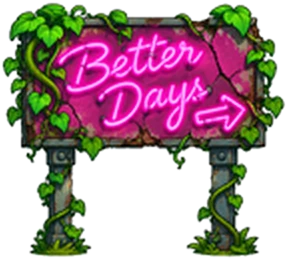
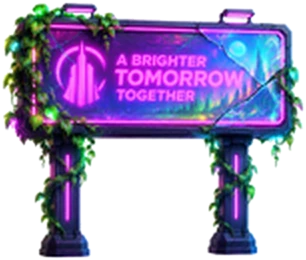
Direccion de arte neon premium: suelos oscuros con luz propia, bloom, etalonaje, brillo bajo objetos y personajes; sprites del Nivel 3 regenerados en estilo 3D neon

diff --git a/juegos/condenados/index.html b/juegos/condenados/index.html
@@ -1202,6 +1202,7 @@ function drawPlants(t) {
     const H = 88, W = H * img.width / img.height, grow = Math.min(1, p.t / 0.45), bob = Math.sin(t * 3 + p.seed * 9) * 2;
     const sc = grow * (1 + (p.bite > 0 ? 0.16 : 0) + (p.type === 'bomb' && p.arm <= 0 ? Math.sin(t * 16) * 0.05 : 0));
     ctx.fillStyle = 'rgba(0,0,0,.38)'; ctx.beginPath(); ctx.ellipse(p.x + 3, p.y + 6, 30, 13, 0, 0, 7); ctx.fill();
+    { const gl = getGlow(d.spr); if (gl) { const k = H / img.height, gw = gl.w * k, gh = gl.h * k; ctx.save(); ctx.globalCompositeOperation = 'lighter'; ctx.globalAlpha = 0.5 * grow; ctx.drawImage(gl.c, p.x - gw / 2, p.y + 8 - H - (gh - H) / 2 + bob, gw, gh); ctx.restore(); } }
     ctx.save(); ctx.translate(p.x, p.y + 8); ctx.scale(sc * (p.type === 'shoot' ? p.face : 1), sc); if (p.hurt > 0) ctx.globalAlpha = 0.6 + Math.sin(t * 40) * 0.3; ctx.drawImage(img, -W / 2, -H + bob, W, H); ctx.restore();
     ctx.save(); ctx.globalCompositeOperation = 'lighter'; glow(p.x, p.y - 30, 52, d.col, 0.16 + (p.bite > 0 ? 0.3 : 0)); ctx.restore();
     if (p.t < 2.2) { ctx.save(); ctx.strokeStyle = d.col; ctx.globalAlpha = 0.5 * (1 - p.t / 2.2); ctx.lineWidth = 2; ctx.beginPath(); ctx.arc(p.x, p.y, p.type === 'shoot' ? 440 : p.type === 'trap' ? 80 : 105, 0, 7); ctx.stroke(); ctx.restore(); }
@@ -1317,32 +1318,29 @@ function makeJungleTile(kind = 'concrete') {
   const c = document.createElement('canvas'); c.width = c.height = 160; const g = c.getContext('2d');
   let sd = 11 + kind.length * 7; const rnd = () => (sd = (sd * 16807) % 2147483647) / 2147483647;
   const speck = (n, cols, rmax) => { for (let i = 0; i < n; i++) { g.fillStyle = cols[(rnd() * cols.length) | 0]; const r = 1 + rnd() * rmax; g.fillRect(rnd() * 160, rnd() * 160, r, r); } };
-  const moss = (n, a) => { for (let i = 0; i < n; i++) { const x = rnd() * 160, y = rnd() * 160, r = 4 + rnd() * 13; g.fillStyle = 'rgba(' + (40 + rnd() * 50 | 0) + ',' + (150 + rnd() * 90 | 0) + ',' + (40 + rnd() * 40 | 0) + ',' + (a + rnd() * 0.3) + ')'; g.beginPath(); g.ellipse(x, y, r, r * 0.7, rnd() * 3, 0, 7); g.fill(); } };
+  const glowDots = (n, col) => { for (let i = 0; i < n; i++) { const x = 26 + rnd() * 108, y = 26 + rnd() * 108, r = 2 + rnd() * 3; const gr = g.createRadialGradient(x, y, 0, x, y, r * 4); gr.addColorStop(0, col); gr.addColorStop(1, 'rgba(0,0,0,0)'); g.fillStyle = gr; g.fillRect(x - r * 4, y - r * 4, r * 8, r * 8); } };
+  const lines = (col, w, a) => { g.save(); g.strokeStyle = col; g.lineWidth = w; g.globalAlpha = a; g.shadowColor = col; g.shadowBlur = 8; };
   if (kind === 'asphalt') {
-    g.fillStyle = '#3a3e46'; g.fillRect(0, 0, 160, 160); speck(260, ['#2c2f36', '#4a4e57', '#33363d', '#575b64'], 2.4);
-    g.strokeStyle = 'rgba(15,16,20,.55)'; g.lineWidth = 2; for (let i = 0; i < 3; i++) { let x = rnd() * 160, y = rnd() * 160; g.beginPath(); g.moveTo(x, y); for (let k = 0; k < 5; k++) { x += (rnd() - 0.5) * 36; y += (rnd() - 0.5) * 36; g.lineTo(x, y); } g.stroke(); }
-    moss(3, 0.18);
+    g.fillStyle = '#141623'; g.fillRect(0, 0, 160, 160); speck(260, ['#0d0f1a', '#1c1f30', '#101222', '#262a40'], 2.4);
+    lines('#2be8f0', 1.5, 0.35); for (let i = 0; i < 2; i++) { let x = rnd() * 160, y = rnd() * 160; g.beginPath(); g.moveTo(x, y); for (let k = 0; k < 5; k++) { x += (rnd() - 0.5) * 36; y += (rnd() - 0.5) * 36; g.lineTo(x, y); } g.stroke(); } g.restore();
+    glowDots(3, 'rgba(125,255,106,.55)');
   } else if (kind === 'dirt') {
-    g.fillStyle = '#6b5a3c'; g.fillRect(0, 0, 160, 160); speck(300, ['#5a4a30', '#7a6844', '#4d3f28', '#86744e'], 3);
-    for (let i = 0; i < 6; i++) { g.strokeStyle = 'rgba(70,50,30,.4)'; g.lineWidth = 3; g.beginPath(); const x = rnd() * 160, y = rnd() * 160; g.moveTo(x, y); g.lineTo(x + 30 + rnd() * 30, y + (rnd() - 0.5) * 12); g.stroke(); }
-    moss(5, 0.22);
-    for (let i = 0; i < 5; i++) { const x = rnd() * 160, y = rnd() * 160; g.strokeStyle = '#3fb84a'; g.lineWidth = 2; for (let k = -1; k <= 1; k++) { g.beginPath(); g.moveTo(x, y); g.lineTo(x + k * 4, y - 8 - rnd() * 4); g.stroke(); } }
+    g.fillStyle = '#1d1830'; g.fillRect(0, 0, 160, 160); speck(300, ['#15112a', '#2a2244', '#120e22', '#33295a'], 3);
+    glowDots(4, 'rgba(125,255,106,.45)'); glowDots(2, 'rgba(255,63,180,.4)'); glowDots(2, 'rgba(43,232,240,.4)');
   } else if (kind === 'tile') {
-    g.fillStyle = '#9aa0a8'; g.fillRect(0, 0, 160, 160);
-    for (let i = 0; i < 4; i++) for (let j = 0; j < 4; j++) { const x = i * 40, y = j * 40, ch = (i + j) % 2; g.fillStyle = ch ? '#d9dee6' : '#c4cad4'; g.fillRect(x + 1, y + 1, 38, 38); g.fillStyle = 'rgba(255,255,255,.35)'; g.fillRect(x + 3, y + 3, 14, 4); }
-    g.strokeStyle = 'rgba(70,60,90,.5)'; g.lineWidth = 2; for (let i = 0; i <= 4; i++) { g.beginPath(); g.moveTo(i * 40, 0); g.lineTo(i * 40, 160); g.stroke(); g.beginPath(); g.moveTo(0, i * 40); g.lineTo(160, i * 40); g.stroke(); }
-    for (let i = 0; i < 4; i++) { let x = rnd() * 160, y = rnd() * 160; g.strokeStyle = 'rgba(40,30,50,.5)'; g.lineWidth = 2; g.beginPath(); g.moveTo(x, y); for (let k = 0; k < 4; k++) { x += (rnd() - 0.5) * 28; y += (rnd() - 0.5) * 28; g.lineTo(x, y); } g.stroke(); }
-    moss(8, 0.3);
+    g.fillStyle = '#0e1426'; g.fillRect(0, 0, 160, 160);
+    for (let i = 0; i < 4; i++) for (let j = 0; j < 4; j++) { const x = i * 40, y = j * 40, ch = (i + j) % 2; g.fillStyle = ch ? '#1e2744' : '#18203a'; g.fillRect(x + 2, y + 2, 36, 36); g.fillStyle = 'rgba(180,230,255,.07)'; g.fillRect(x + 4, y + 4, 14, 4); }
+    lines('#ff3fb4', 1.5, 0.5); for (let i = 0; i <= 4; i++) { g.beginPath(); g.moveTo(i * 40, 0); g.lineTo(i * 40, 160); g.stroke(); g.beginPath(); g.moveTo(0, i * 40); g.lineTo(160, i * 40); g.stroke(); } g.restore();
+    glowDots(6, 'rgba(43,232,240,.5)');
   } else if (kind === 'cobble') {
-    g.fillStyle = '#4c4f52'; g.fillRect(0, 0, 160, 160);
-    for (let j = 0; j < 8; j++) for (let i = 0; i < 7; i++) { const x = i * 23 + (j % 2) * 11 - 6, y = j * 20 + 1, sh = 120 + (rnd() * 40 | 0); g.fillStyle = 'rgb(' + sh + ',' + (sh + 4) + ',' + (sh + 8) + ')'; g.beginPath(); g.roundRect ? g.roundRect(x, y, 21, 18, 5) : g.rect(x, y, 21, 18); g.fill(); g.fillStyle = 'rgba(255,255,255,.18)'; g.fillRect(x + 3, y + 2, 9, 3); }
-    moss(14, 0.4);
+    g.fillStyle = '#120f22'; g.fillRect(0, 0, 160, 160);
+    for (let j = 0; j < 8; j++) for (let i = 0; i < 7; i++) { const x = i * 23 + (j % 2) * 11 - 6, y = j * 20 + 1, sh = 38 + (rnd() * 26 | 0); g.fillStyle = 'rgb(' + sh + ',' + (sh - 4) + ',' + (sh + 30) + ')'; g.beginPath(); g.roundRect ? g.roundRect(x, y, 21, 18, 5) : g.rect(x, y, 21, 18); g.fill(); g.fillStyle = 'rgba(190,170,255,.12)'; g.fillRect(x + 3, y + 2, 9, 3); }
+    glowDots(4, 'rgba(176,106,255,.4)'); glowDots(3, 'rgba(125,255,106,.35)');
   } else {
-    g.fillStyle = '#8c9298'; g.fillRect(0, 0, 160, 160);
-    for (let i = 0; i < 2; i++) for (let j = 0; j < 2; j++) { const x = i * 80, y = j * 80; g.fillStyle = (i + j) % 2 ? '#9aa0a6' : '#868c92'; g.fillRect(x + 2, y + 2, 76, 76); g.strokeStyle = 'rgba(30,36,40,.6)'; g.lineWidth = 2; g.strokeRect(x + 1, y + 1, 78, 78); }
-    speck(180, ['#7a8086', '#a8aeb4', '#6c7278'], 2.5);
-    for (let i = 0; i < 3; i++) { let x = rnd() * 160, y = rnd() * 160; g.strokeStyle = 'rgba(30,36,40,.55)'; g.lineWidth = 2; g.beginPath(); g.moveTo(x, y); for (let k = 0; k < 4; k++) { x += (rnd() - 0.5) * 34; y += (rnd() - 0.5) * 34; g.lineTo(x, y); } g.stroke(); }
-    moss(6, 0.25);
+    g.fillStyle = '#171b27'; g.fillRect(0, 0, 160, 160);
+    for (let i = 0; i < 2; i++) for (let j = 0; j < 2; j++) { const x = i * 80, y = j * 80; g.fillStyle = (i + j) % 2 ? '#1f2535' : '#191e2c'; g.fillRect(x + 2, y + 2, 76, 76); }
+    lines('#ff8a3d', 1.5, 0.4); for (let i = 0; i < 2; i++) { g.beginPath(); g.moveTo(i * 80, 0); g.lineTo(i * 80, 160); g.stroke(); g.beginPath(); g.moveTo(0, i * 80); g.lineTo(160, i * 80); g.stroke(); } g.restore();
+    speck(180, ['#10131d', '#2a3144', '#0c0f18'], 2.5); glowDots(4, 'rgba(255,138,61,.5)');
   }
   return c;
 }
@@ -3717,6 +3715,33 @@ function drawRoof(r) {
   ctx.fillStyle = 'rgba(0,0,0,.35)'; ctx.fillRect(r.x + 10, r.y + 14, r.w, r.h);
   ctx.drawImage(img, r.x - 8, r.y - 10, r.w + 16, r.h + 10);
 }
+/* ---- direccion de arte: neon moderno (luz propia, brillo y etalonaje) ---- */
+const GLOWCOL = { j_tree:'#b6ff3a', j_tree2:'#7dff6a', j_lamp:'#ffe14a', j_bush:'#7dff6a', j_mushroom:'#2be8f0', j_fountain:'#2be8f0', j_container:'#ff8a3d', j_ambulance:'#ff3fb4', j_bus:'#ffe14a', j_taxi:'#ffe14a', j_bench:'#7dff6a', j_tent:'#ff8a3d', j_fire:'#ffa12b', j_stall:'#ff3fb4', j_crane:'#ff8a3d', j_solar:'#2b9bff', j_billboard:'#ff3fb4', j_rocks:'#2be8f0', j_wtower:'#2be8f0', j_barricade:'#7dff6a',
+  l_drum:'#7dff6a', l_case:'#2be8f0', l_barrier:'#ffe14a', l_boxes:'#2be8f0', l_locker:'#ff3fb4', l_tube:'#7dff6a', l_labtable:'#2be8f0', l_planter:'#7dff6a', l_cryo:'#2be8f0', l_turret:'#ff3fb4', l_console:'#2be8f0', pl_shoot:'#7dff6a', pl_trap:'#ff3fb4', pl_bomb:'#ffa12b', i_spore:'#7dff6a', i_sap:'#ff3fb4', i_core:'#2be8f0' };
+const GLOWIMG = {};
+function getGlow(key) {
+  if (GLOWIMG[key] !== undefined) return GLOWIMG[key];
+  const img = IMG[key], col = GLOWCOL[key]; if (!img || !col) return GLOWIMG[key] = null;
+  const p = Math.round(Math.max(img.width, img.height) * 0.16), w = img.width + p * 2, h = img.height + p * 2;
+  const a = document.createElement('canvas'); a.width = w; a.height = h; const g = a.getContext('2d'); g.drawImage(img, p, p); g.globalCompositeOperation = 'source-in'; g.fillStyle = col; g.fillRect(0, 0, w, h);
+  let cur = a; for (const d of [3, 3]) { const b = document.createElement('canvas'); b.width = Math.max(4, Math.round(cur.width / d)); b.height = Math.max(4, Math.round(cur.height / d)); const q = b.getContext('2d'); q.drawImage(cur, 0, 0, b.width, b.height); cur = b; }
+  const o = document.createElement('canvas'); o.width = w; o.height = h; const og = o.getContext('2d'); og.imageSmoothingQuality = 'high'; og.drawImage(cur, 0, 0, w, h);
+  return GLOWIMG[key] = { c:o, p, w, h };
+}
+let bloomA = null, bloomB = null;
+function neonPost() {
+  const bw = Math.max(64, Math.round(cv.width / (IS_TOUCH ? 8 : 5))), bh = Math.max(36, Math.round(cv.height / (IS_TOUCH ? 8 : 5)));
+  if (fxOn) {
+    if (!bloomA || bloomA.width !== bw) { bloomA = document.createElement('canvas'); bloomB = document.createElement('canvas'); bloomA.width = bloomB.width = bw; bloomA.height = bloomB.height = bh; }
+    const a = bloomA.getContext('2d'), b = bloomB.getContext('2d');
+    a.globalCompositeOperation = 'source-over'; a.globalAlpha = 1; a.drawImage(cv, 0, 0, bw, bh);
+    a.globalCompositeOperation = 'multiply'; a.drawImage(bloomA, 0, 0); a.drawImage(bloomA, 0, 0);   // umbral: solo quedan las zonas muy brillantes
+    b.globalCompositeOperation = 'copy'; b.drawImage(bloomA, 0, 0, bw / 2, bh / 2); a.globalCompositeOperation = 'copy'; a.drawImage(bloomB, 0, 0, bw / 2, bh / 2, 0, 0, bw, bh);
+    ctx.save(); ctx.setTransform(1, 0, 0, 1, 0, 0); ctx.globalCompositeOperation = 'lighter'; ctx.globalAlpha = 0.6; ctx.imageSmoothingEnabled = true; ctx.drawImage(bloomA, 0, 0, bw, bh, 0, 0, cv.width, cv.height); ctx.restore();
+  }
+  ctx.save(); ctx.globalCompositeOperation = 'soft-light'; const gg = ctx.createLinearGradient(0, 0, 0, H); gg.addColorStop(0, 'rgba(120,70,255,.38)'); gg.addColorStop(1, 'rgba(255,40,160,.30)'); ctx.fillStyle = gg; ctx.fillRect(0, 0, W, H); ctx.restore();   // etalonaje violeta/magenta
+  const vg = ctx.createRadialGradient(W / 2, H / 2, Math.min(W, H) * 0.42, W / 2, H / 2, Math.max(W, H) * 0.78); vg.addColorStop(0, 'rgba(4,2,12,0)'); vg.addColorStop(1, 'rgba(4,2,12,.62)'); ctx.fillStyle = vg; ctx.fillRect(0, 0, W, H);
+}
 // sprite que ocupa un rectangulo de colision; los alargados giran 90 grados en calles verticales
 function drawFit(r) {
   const img = IMG[r.hv ? r.spr + '#' + r.hv : r.spr] || IMG[r.spr]; if (!img) return false;
@@ -3725,6 +3750,8 @@ function drawFit(r) {
   ctx.save(); ctx.translate(cx, cy);
   if (!lab && !horiz && asp > 1.3) ctx.rotate((r.dir || 1) * Math.PI / 2);
   if (r.flip) ctx.scale(-1, 1);
+  const gl = lab ? getGlow(r.spr) : null;
+  if (gl) { const k = dW / img.width, gw = gl.w * k, gh = gl.h * k; ctx.globalCompositeOperation = 'lighter'; ctx.globalAlpha = 0.55 + Math.sin(performance.now() / 700 + r.seed * 9) * 0.12; ctx.drawImage(gl.c, -gw / 2, -gh / 2 - 8, gw, gh); ctx.globalAlpha = 1; ctx.globalCompositeOperation = 'source-over'; }
   ctx.drawImage(img, -dW / 2, -dW / asp / 2 - (lab ? 8 : 0), dW, dW / asp);
   ctx.restore();
   if (r.explosive) { const pu = 0.5 + Math.sin(performance.now() / 260 + r.seed * 9) * 0.5; ctx.save(); ctx.globalCompositeOperation = 'lighter'; glow(cx, cy, 78, '#ff3a2a', 0.22 + pu * 0.2); ctx.restore(); ctx.fillStyle = '#ffd24a'; ctx.font = 'bold 15px sans-serif'; ctx.textAlign = 'center'; ctx.strokeStyle = '#000'; ctx.lineWidth = 3; ctx.strokeText('!', cx, cy - r.h * 0.62); ctx.fillText('!', cx, cy - r.h * 0.62); }
@@ -3788,12 +3815,12 @@ let METAL = null, METALZ = [];
 // baldosa de laboratorio: blanca, brillante y con juntas finas
 function makeLabTile() {
   const c = document.createElement('canvas'); c.width = c.height = 160; const g = c.getContext('2d');
-  g.fillStyle = '#9aa2ae'; g.fillRect(0, 0, 160, 160);
+  g.fillStyle = '#0d1424'; g.fillRect(0, 0, 160, 160);
   for (let i = 0; i < 2; i++) for (let j = 0; j < 2; j++) {
-    const x = i * 80, y = j * 80, gd = g.createLinearGradient(x, y, x + 80, y + 80); gd.addColorStop(0, '#b9c0cb'); gd.addColorStop(1, '#8e97a4');
-    g.fillStyle = gd; g.fillRect(x + 2, y + 2, 76, 76);
-    g.fillStyle = 'rgba(255,255,255,.35)'; g.beginPath(); g.moveTo(x + 6, y + 6); g.lineTo(x + 46, y + 6); g.lineTo(x + 6, y + 46); g.closePath(); g.fill();   // reflejo
-    g.strokeStyle = 'rgba(40,50,70,.55)'; g.lineWidth = 2; g.strokeRect(x + 1, y + 1, 78, 78);
+    const x = i * 80, y = j * 80, gd = g.createLinearGradient(x, y, x + 80, y + 80); gd.addColorStop(0, '#26314e'); gd.addColorStop(1, '#141b30');
+    g.fillStyle = gd; g.fillRect(x + 3, y + 3, 74, 74);
+    g.fillStyle = 'rgba(160,220,255,.10)'; g.beginPath(); g.moveTo(x + 6, y + 6); g.lineTo(x + 46, y + 6); g.lineTo(x + 6, y + 46); g.closePath(); g.fill();   // reflejo
+    g.save(); g.shadowColor = '#2be8f0'; g.shadowBlur = 8; g.strokeStyle = 'rgba(43,232,240,.55)'; g.lineWidth = 2; g.strokeRect(x + 2, y + 2, 76, 76); g.restore();
   }
   return c;
 }
@@ -3802,9 +3829,9 @@ function metalFor(z) {
   if (mission && mission.jungle) return METALZ[z] = makeJungleTile(JKIND[z]);
   const c = document.createElement('canvas'); c.width = c.height = 160; const g = c.getContext('2d');
   g.drawImage(METAL, 0, 0);
-  g.globalCompositeOperation = 'overlay'; g.globalAlpha = mission && mission.jungle ? 0.5 : mission && mission.lab ? 0.8 : 0.95; g.fillStyle = ZINFO[z].fl; g.fillRect(0, 0, 160, 160);
-  g.globalCompositeOperation = 'soft-light'; g.globalAlpha = 0.6; g.fillStyle = '#ffffff'; g.fillRect(0, 0, 160, 160);
-  g.globalCompositeOperation = 'source-over'; g.globalAlpha = 0.22; g.strokeStyle = ZINFO[z].acc; g.lineWidth = 2;
+  g.globalCompositeOperation = 'overlay'; g.globalAlpha = mission && mission.lab ? 0.32 : 0.95; g.fillStyle = ZINFO[z].fl; g.fillRect(0, 0, 160, 160);
+  if (!(mission && mission.lab)) { g.globalCompositeOperation = 'soft-light'; g.globalAlpha = 0.6; g.fillStyle = '#ffffff'; g.fillRect(0, 0, 160, 160); g.globalCompositeOperation = 'multiply'; g.globalAlpha = 1; g.fillStyle = 'rgb(112,98,170)'; g.fillRect(0, 0, 160, 160); }
+  g.globalCompositeOperation = 'source-over'; g.globalAlpha = mission && mission.lab ? 0.5 : 0.6; g.strokeStyle = ZINFO[z].acc; g.lineWidth = 2; g.shadowColor = ZINFO[z].acc; g.shadowBlur = 7;
   for (let i = 0; i < 2; i++) for (let j = 0; j < 2; j++) g.strokeRect(i * 80 + 5, j * 80 + 5, 70, 70);
   return METALZ[z] = c;
 }
@@ -3836,12 +3863,12 @@ function drawFloorDeco(tNow, kind, inView) {
     }
     if (d.t === 'walk' || d.t === 'path' || d.t === 'curb' || d.t === 'line' || d.t === 'dash' || d.t === 'zebra' || d.t === 'manhole' || d.t === 'crack') {
       if (!inView(d.x - 20, d.y - 20, d.w + 40, d.h + 40)) continue;
-      if (d.t === 'walk') { ctx.fillStyle = d.col; ctx.fillRect(d.x, d.y, d.w, d.h); ctx.strokeStyle = 'rgba(40,46,36,.55)'; ctx.lineWidth = 2; const vert = d.h > d.w; for (let k = 0; k < (vert ? d.h : d.w); k += 80) { ctx.beginPath(); if (vert) { ctx.moveTo(d.x, d.y + k); ctx.lineTo(d.x + d.w, d.y + k); } else { ctx.moveTo(d.x + k, d.y); ctx.lineTo(d.x + k, d.y + d.h); } ctx.stroke(); } ctx.fillStyle = 'rgba(80,200,70,.35)'; for (let k = 0; k < 6; k++) { const q = hashT(Math.floor(d.x / 7) + k, Math.floor(d.y / 7) + k * 3); ctx.beginPath(); ctx.ellipse(d.x + (q % 100) / 100 * d.w, d.y + ((q >> 7) % 100) / 100 * d.h, 14, 9, 0.5, 0, 7); ctx.fill(); } }
+      if (d.t === 'walk') { ctx.fillStyle = '#2a2f4a'; ctx.fillRect(d.x, d.y, d.w, d.h); ctx.strokeStyle = 'rgba(43,232,240,.28)'; ctx.lineWidth = 2; const vert = d.h > d.w; for (let k = 0; k < (vert ? d.h : d.w); k += 80) { ctx.beginPath(); if (vert) { ctx.moveTo(d.x, d.y + k); ctx.lineTo(d.x + d.w, d.y + k); } else { ctx.moveTo(d.x + k, d.y); ctx.lineTo(d.x + k, d.y + d.h); } ctx.stroke(); } ctx.fillStyle = 'rgba(125,255,106,.28)'; for (let k = 0; k < 6; k++) { const q = hashT(Math.floor(d.x / 7) + k, Math.floor(d.y / 7) + k * 3); ctx.beginPath(); ctx.ellipse(d.x + (q % 100) / 100 * d.w, d.y + ((q >> 7) % 100) / 100 * d.h, 14, 9, 0.5, 0, 7); ctx.fill(); } }
       else if (d.t === 'path') { ctx.fillStyle = d.col; ctx.globalAlpha = 0.55; ctx.fillRect(d.x, d.y, d.w, d.h); ctx.globalAlpha = 1; }
-      else if (d.t === 'curb') { ctx.fillStyle = d.col; ctx.fillRect(d.x, d.y, d.w, d.h); }
-      else if (d.t === 'line') { ctx.fillStyle = d.col; ctx.fillRect(d.x, d.y, d.w, d.h); }
-      else if (d.t === 'dash') { ctx.fillStyle = d.col; const vert = d.h > d.w; for (let k = 0; k < (vert ? d.h : d.w); k += 90) { if (vert) ctx.fillRect(d.x, d.y + k, d.w, 50); else ctx.fillRect(d.x + k, d.y, 50, d.h); } }
-      else if (d.t === 'zebra') { ctx.fillStyle = d.col; ctx.globalAlpha = 0.85; if (d.w >= d.h) for (let k = 0; k < d.w - 10; k += 34) ctx.fillRect(d.x + k, d.y, 18, d.h); else for (let k = 0; k < d.h - 10; k += 34) ctx.fillRect(d.x, d.y + k, d.w, 18); ctx.globalAlpha = 1; }
+      else if (d.t === 'curb') { ctx.save(); ctx.shadowColor = '#2be8f0'; ctx.shadowBlur = 12; ctx.fillStyle = '#2be8f0'; ctx.fillRect(d.x, d.y, d.w, d.h); ctx.restore(); }
+      else if (d.t === 'line') { ctx.save(); ctx.shadowColor = d.col; ctx.shadowBlur = 14; ctx.fillStyle = d.col; ctx.fillRect(d.x, d.y, d.w, d.h); ctx.restore(); }
+      else if (d.t === 'dash') { ctx.shadowColor = d.col; ctx.shadowBlur = 10; ctx.fillStyle = d.col; const vert = d.h > d.w; for (let k = 0; k < (vert ? d.h : d.w); k += 90) { if (vert) ctx.fillRect(d.x, d.y + k, d.w, 50); else ctx.fillRect(d.x + k, d.y, 50, d.h); } ctx.shadowBlur = 0; }
+      else if (d.t === 'zebra') { ctx.fillStyle = '#d8f4ff'; ctx.shadowColor = '#2be8f0'; ctx.shadowBlur = 8; ctx.globalAlpha = 0.8; if (d.w >= d.h) for (let k = 0; k < d.w - 10; k += 34) ctx.fillRect(d.x + k, d.y, 18, d.h); else for (let k = 0; k < d.h - 10; k += 34) ctx.fillRect(d.x, d.y + k, d.w, 18); ctx.globalAlpha = 1; ctx.shadowBlur = 0; }
       else if (d.t === 'manhole') { ctx.fillStyle = d.col; ctx.beginPath(); ctx.arc(d.x, d.y, 24, 0, 7); ctx.fill(); ctx.strokeStyle = '#6a6e76'; ctx.lineWidth = 3; ctx.beginPath(); ctx.arc(d.x, d.y, 24, 0, 7); ctx.stroke(); ctx.lineWidth = 2; for (let k = -1; k <= 1; k++) { ctx.beginPath(); ctx.moveTo(d.x - 16, d.y + k * 8); ctx.lineTo(d.x + 16, d.y + k * 8); ctx.stroke(); } }
       else if (d.t === 'crack') { ctx.strokeStyle = d.col; ctx.lineWidth = 3; ctx.beginPath(); ctx.moveTo(d.x, d.y); let px = d.x, py = d.y; for (let k = 0; k < 6; k++) { px += d.w / 6 + (hashT(k, Math.floor(d.x)) % 14 - 7); py += d.h / 6 + (hashT(k + 9, Math.floor(d.y)) % 14 - 7); ctx.lineTo(px, py); } ctx.stroke(); }
       continue;
@@ -4443,6 +4470,9 @@ function draw() {
     }
   }
   if (!fp) drawPlants(tNow);
+  if (fxOn && !fp) { ctx.save(); ctx.globalCompositeOperation = 'lighter'; glow(player.x, player.y + 10, 78, '#2be8f0', 0.30 + Math.sin(tNow * 3) * 0.05);
+    for (const z of zombies) { if (z.x < cam.x - 200 || z.x > cam.x + cam.vw + 200 || z.y < cam.y - 200 || z.y > cam.y + cam.vh + 200) continue; glow(z.x, z.y + z.r * 0.5, z.r * 2.4, z.st === 'chase' ? '#ff3a4a' : z.st && z.st !== 'idle' ? '#ffa12b' : z.boss ? '#ff3a4a' : '#7dff6a', z.st === 'chase' ? 0.34 : 0.2); }
+    ctx.restore(); }
   for (const z of zombies) {
     if (z.x < cam.x - 220 || z.x > cam.x + cam.vw + 220 || z.y < cam.y - 260 || z.y > cam.y + cam.vh + 260) continue;
     drawZombie(z);
@@ -4552,6 +4582,7 @@ function draw() {
   g.addColorStop(0, 'rgba(0,0,0,0)'); g.addColorStop(1, 'rgba(40,6,90,.34)');
   ctx.fillStyle = g; ctx.fillRect(0, 0, W, H);
 
+  neonPost();
   // farolas
   if (mode === 'mission' && mission && IMG.farola) {
     const li = IMG.farola, Dw = 600, Dh = Dw * li.height / li.width;
